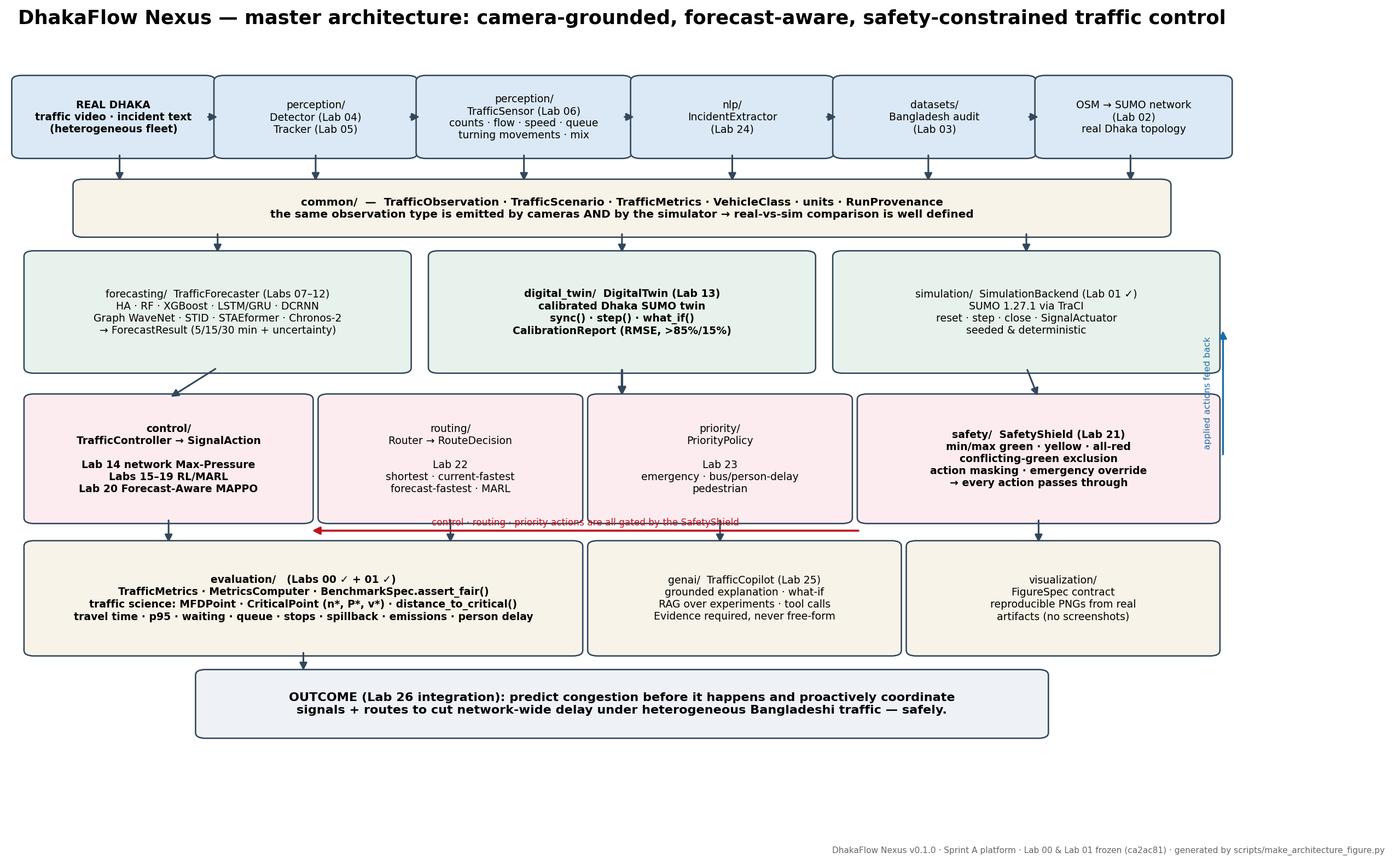
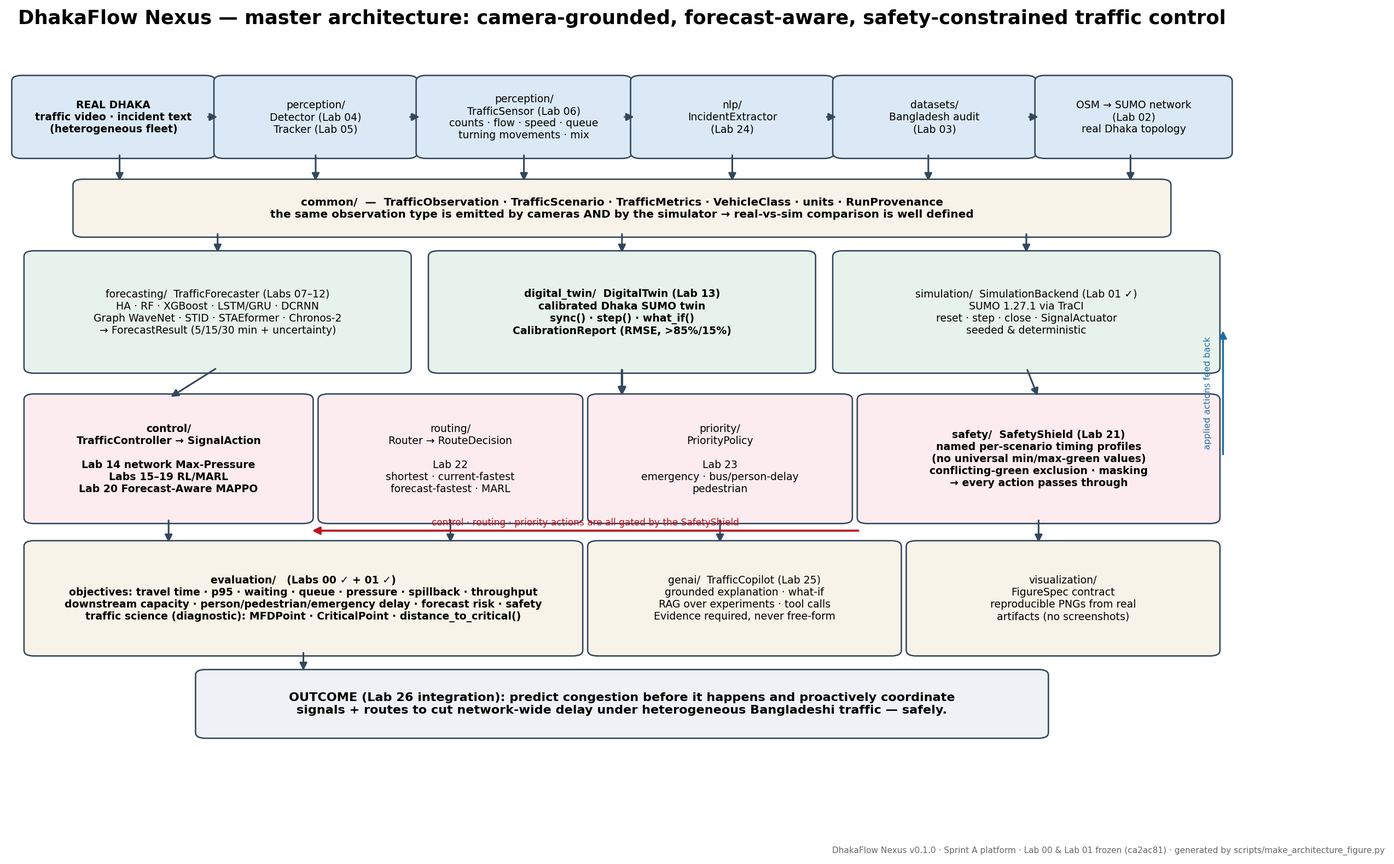
Sprint A semantic fixes: MFD role bounded, safety timings de-universalized, torino as fixture
Semantics/docs/tests only. No architecture redesign, no numerical result changed
(git diff vs ca2ac81 over Lab 00/01 evidence: 0 files).

1. MFD critical point is no longer described as a control set-point. It is a
   traffic-science diagnostic, congestion/capacity reference, and OPTIONAL state
   feature / reward-shaping term / risk signal to be justified by ablation.
   Controllers (Labs 14-21) optimise travel time, waiting, queue, pressure,
   spillback, throughput, downstream capacity, person/pedestrian/emergency
   delay, forecast risk and safety; Forecast-Aware MAPPO is never required to
   hold n ~= n*. Added a network-specificity/non-transferability warning.

2. SafetyConstraints no longer ships universal timing defaults: profile_name,
   min_green_s, max_green_s and yellow_s are now required, and values come from
   named per-scenario profiles (SAFETY_PROFILES, from_profile). Lab 01's
   10/45/3 s survive only as LAB01_VALIDATED_REFERENCE_PROFILE, tagged synthetic
   with no real-world jurisdiction; no 'default' or 'dhaka' profile exists.

3. Torino v*=34.6 km/h is now an explicitly named Lab 00 regression fixture
   (test_lab00_torino_regression_fixture_is_not_a_dhaka_threshold) that also
   pins the interior_maximum=False and calibrated=False caveats, and states it
   is not a Dhaka threshold/target/calibration input.

Updated: platform docstrings, docs/PLATFORM_ARCHITECTURE.md, docs/GRADUATION_MAP.md,
[…]

Changed region(s): [[0.031, 0.6513, 0.4031, 0.7443], [0.6511, 0.4962, 0.8371, 0.5582]]

diff --git a/tests/platform/test_interfaces.py b/tests/platform/test_interfaces.py
@@ -26,7 +26,8 @@ from dhakaflow.evaluation.traffic_science import (CriticalPoint, MFDPoint,
 from dhakaflow.genai.interfaces import CopilotAnswer, Evidence
 from dhakaflow.perception.interfaces import BoundingBox, Detection, Detector
 from dhakaflow.routing.interfaces import RouteDecision
-from dhakaflow.safety.interfaces import SafetyConstraints
+from dhakaflow.safety.interfaces import (LAB01_VALIDATED_REFERENCE_PROFILE, SAFETY_PROFILES,
+                                          SafetyConstraints)
 from dhakaflow.simulation.interfaces import SimulationBackend
 from dhakaflow.visualization.interfaces import FigureSpec
 
@@ -74,11 +75,38 @@ def test_metrics_missing_values_stay_none_and_cleanliness_is_explicit():
 
 # ------------------------------------------------------ Lab 00 traffic science
 def test_critical_point_speed_and_congestion_state():
-    cp = CriticalPoint(critical_density=31.9, critical_flow=1104.0, interior_maximum=False)
-    assert cp.critical_speed == pytest.approx(34.6, abs=0.1)   # cf. Lab 00 torino
+    """Generic arithmetic of the critical point — synthetic values, no city."""
+    cp = CriticalPoint(critical_density=50.0, critical_flow=2000.0)
+    assert cp.critical_speed == pytest.approx(40.0)
     assert cp.congestion_state(20.0) == "free_flow"
-    assert cp.congestion_state(40.0) == "congested"
-    assert distance_to_critical(40.0, cp) == pytest.approx(8.1)
+    assert cp.congestion_state(60.0) == "congested"
+    assert cp.congestion_state(50.0) == "critical"
+    assert distance_to_critical(60.0, cp) == pytest.approx(10.0)
+
+
+def test_lab00_torino_regression_fixture_is_not_a_dhaka_threshold():
+    """LAB 00 REGRESSION FIXTURE — pins frozen Lab 00 behaviour only.
+
+    Guards that the platform's v* = P*/n* arithmetic still reproduces the frozen
+    Lab 00 torino estimate (k*=31.9 veh/km/lane, q*=1104 veh/h/lane → 34.6 km/h,
+    per paper_labs/00_utd19/outputs/metrics/stage1_run_record.json).
+
+    This is NOT a Dhaka operating threshold, NOT a control target and NOT a
+    calibration input. Torino critical values must never be transferred into
+    Dhaka control or calibration — Dhaka's critical behaviour must be estimated
+    from Dhaka data (Labs 06/13). The fixture also pins the two honesty flags
+    that make the torino number quotable at all.
+    """
+    torino = CriticalPoint(
+        critical_density=31.9, critical_flow=1104.0, units="per_lane",
+        interior_maximum=False,     # fitted max sat at the edge of observed range
+        calibrated=False,           # UNCALIBRATED_ANALYSIS (no Google speed calib.)
+        source_lab="00_utd19",
+    )
+    assert torino.critical_speed == pytest.approx(34.6, abs=0.1)
+    assert torino.interior_maximum is False, "lower-bound caveat must survive"
+    assert torino.calibrated is False, "uncalibrated caveat must survive"
+    assert torino.source_lab == "00_utd19"
 
 
 def test_jam_ratio_check_and_unknown_jam_is_not_a_failure():
@@ -102,10 +130,35 @@ def test_signal_action_validation():
     assert ok.duration_s == 5
 
 
-def test_safety_constraints_reject_impossible_values():
-    SafetyConstraints(min_green_s=10, max_green_s=45)          # Lab 01 values
+def test_safety_constraints_require_a_named_profile_and_valid_timings():
+    ok = SafetyConstraints(profile_name="scenario_x", min_green_s=8,
+                           max_green_s=60, yellow_s=4)
+    assert ok.profile_name == "scenario_x"
+    with pytest.raises(ValueError, match="profile_name"):
+        SafetyConstraints(profile_name="", min_green_s=8, max_green_s=60, yellow_s=4)
     with pytest.raises(ValueError):
-        SafetyConstraints(min_green_s=50, max_green_s=45)
+        SafetyConstraints(profile_name="bad", min_green_s=50, max_green_s=45, yellow_s=3)
+
+
+def test_no_universal_timing_defaults_exist():
+    """Timing values must be supplied per scenario — never inherited silently."""
+    with pytest.raises(TypeError):
+        SafetyConstraints(profile_name="incomplete")      # no min/max/yellow defaults
+
+
+def test_lab01_reference_profile_is_named_and_not_a_dhaka_default():
+    p = LAB01_VALIDATED_REFERENCE_PROFILE
+    assert p.profile_name == "LAB01_VALIDATED_REFERENCE_PROFILE"
+    assert (p.min_green_s, p.max_green_s, p.yellow_s) == (10.0, 45.0, 3.0)
+    assert "Lab 01" in p.provenance and "synthetic" in p.provenance
+    # it is reachable only by explicit name, and no "default"/"dhaka" profile exists
+    assert SafetyConstraints.from_profile(p.profile_name) is p
+    assert not any(k.lower() in ("default", "dhaka") for k in SAFETY_PROFILES)
+    with pytest.raises(KeyError):
+        SafetyConstraints.from_profile("default")
+    tuned = SafetyConstraints.from_profile(p.profile_name, min_green_s=12,
+                                           profile_name="dhaka_farmgate_draft")
+    assert tuned.min_green_s == 12 and tuned.profile_name == "dhaka_farmgate_draft"
 
 
 # ------------------------------------------------------------ grounded genai

diff --git a/dhakaflow/evaluation/traffic_science.py b/dhakaflow/evaluation/traffic_science.py
@@ -8,11 +8,33 @@ This module carries the *definitions and invariants* into the platform. It does
 NOT recompute or restate Lab 00's frozen torino numbers — those live in
 paper_labs/00_utd19/outputs/ and are cited, never duplicated.
 
-Why the platform needs it: the paper's operating principle is that an ideal
-control keeps the network near n ≈ n* (Loder et al. §Introduction). That makes
-the critical point the set-point/reference against which Labs 14-21 controllers
-are judged, and the congested branch is why routing more vehicles into a
+Role of the critical point in DhakaFlow — read this before using it
+-------------------------------------------------------------------
+Loder et al. observe that, for maximising *travel production alone*, an ideal
+control would act near n ≈ n* (their §Introduction). That is a statement about
+one macroscopic quantity in their study networks. It is **not** the DhakaFlow
+control objective, and no controller in this project is required or expected to
+hold n ≈ n*.
+
+Within DhakaFlow the critical point is used only as:
+  * a **traffic-science diagnostic** (is this network in its free-flow or
+    congested branch?);
+  * a **congestion/capacity reference** for interpreting results;
+  * an optional **state feature** for a controller or forecaster;
+  * an optional **reward-shaping feature** whose usefulness must be established
+    by ablation, never assumed;
+  * an optional **constraint / risk signal** (e.g. over-saturation warning).
+
+Controllers in Labs 14-21 optimise broader, multi-objective outcomes — travel
+time, waiting time, queue length, pressure, spillback, throughput, downstream
+capacity, person-delay, pedestrian delay, emergency delay, forecast risk and
+safety. The congested branch also explains why routing more vehicles into a
 saturated region lowers total throughput (Lab 22).
+
+Transferability warning: critical values are network-specific. A value measured
+on one city's network (e.g. Lab 00's torino estimate) must never be transferred
+as an operating threshold for Dhaka; Dhaka's own critical behaviour has to be
+estimated from Dhaka data (Labs 06/13).
 """
 from __future__ import annotations
 
@@ -50,6 +72,11 @@ class CriticalPoint:
     fitted maximum sits at the edge of the observed range (whole-city torino
     never entered deep congestion) the critical point is a lower bound, not a
     peak, and must not be reported as a capacity estimate without that caveat.
+
+    NETWORK-SPECIFIC. A critical point belongs to the network and observation
+    period it was estimated from (`source_lab`). Values are not portable between
+    cities: Lab 00's torino estimate is a reproduction artifact, never a Dhaka
+    operating threshold, control target or calibration input.
     """
 
     critical_density: float          # n* or k*
@@ -98,9 +125,17 @@ def network_speed(production: float, accumulation: float) -> float:
 
 
 def distance_to_critical(current_accumulation: float, critical: CriticalPoint) -> float:
-    """Signed gap n - n*: negative = spare capacity, positive = over-saturated.
+    """Signed gap n - n*: negative = below the critical point, positive = beyond it.
 
-    This is the control-relevant scalar for perimeter/pressure strategies and a
-    natural reward-shaping term for Lab 20 — hence its home in the platform.
+    A DIAGNOSTIC scalar, not a control target. It may be offered to a controller
+    as a state feature, a reward-shaping term or a risk/constraint signal, but
+    any such use must be justified by ablation (Lab 20) against the broader
+    objective set (travel time, waiting, queue, pressure, spillback, throughput,
+    downstream capacity, person/pedestrian/emergency delay, forecast risk,
+    safety). Nothing in the platform drives the network toward n = n*.
+
+    `critical` must have been estimated on the SAME network being measured.
     """
+    if critical.units != "per_km2" and critical.units != "per_lane":
+        raise ValueError(f"unknown units {critical.units!r}")
     return current_accumulation - critical.critical_density

diff --git a/dhakaflow/safety/interfaces.py b/dhakaflow/safety/interfaces.py
@@ -7,7 +7,7 @@ constraints on its own, so the shield sits between controller and actuator.
 """
 from __future__ import annotations
 
-from dataclasses import dataclass, field
+from dataclasses import dataclass, field, replace
 from typing import Mapping, Protocol, Sequence, runtime_checkable
 
 from ..common.types import JunctionId, TrafficObservation
@@ -16,21 +16,70 @@ from ..control.interfaces import SignalAction
 
 @dataclass(frozen=True)
 class SafetyConstraints:
-    """Hard constraints. Defaults match the Lab 01 validated configuration."""
+    """Hard signal-timing constraints for ONE scenario/junction group.
 
-    min_green_s: float = 10.0
-    max_green_s: float = 45.0
-    yellow_s: float = 3.0
+    There are **no universal timing values**. Green/yellow/all-red durations
+    depend on approach speed, junction geometry, crossing width, pedestrian
+    volumes and local regulation, so every value must come from a named,
+    scenario-specific profile supplied by config — never from a library default.
+    `profile_name` is mandatory so that any reported result states which timing
+    regime produced it.
+
+    Dhaka profiles must be derived from Dhaka field/regulatory data (Labs 02/03
+    onward) and are NOT expected to equal the Lab 01 reference values.
+    """
+
+    profile_name: str
+    min_green_s: float
+    max_green_s: float
+    yellow_s: float
     all_red_s: float = 0.0
     min_pedestrian_clearance_s: float = 0.0
     forbid_conflicting_greens: bool = True
     allow_emergency_override: bool = True
+    provenance: str = ""            # where these numbers came from
 
     def __post_init__(self) -> None:
+        if not self.profile_name:
+            raise ValueError("profile_name is required — timing values are never anonymous")
         if self.min_green_s <= 0 or self.max_green_s < self.min_green_s:
             raise ValueError("require 0 < min_green_s <= max_green_s")
         if self.yellow_s < 0 or self.all_red_s < 0:
             raise ValueError("transition times must be >= 0")
+        if self.min_pedestrian_clearance_s < 0:
+            raise ValueError("min_pedestrian_clearance_s must be >= 0")
+
+    @classmethod
+    def from_profile(cls, name: str, **overrides) -> "SafetyConstraints":
+        """Build from a registered named profile (see SAFETY_PROFILES)."""
+        try:
+            base = SAFETY_PROFILES[name]
+        except KeyError as exc:
+            raise KeyError(f"unknown safety profile {name!r}; "
+                           f"available: {sorted(SAFETY_PROFILES)}") from exc
+        return replace(base, **overrides) if overrides else base
+
+
+#: Timing regime validated by Lab 01 on its synthetic 4-arm unit junction.
+#: Use for regression tests, examples and reproducing Lab 01 — NOT as a Dhaka
+#: default and NOT as a recommendation for any real intersection.
+LAB01_VALIDATED_REFERENCE_PROFILE = SafetyConstraints(
+    profile_name="LAB01_VALIDATED_REFERENCE_PROFILE",
+    min_green_s=10.0,
+    max_green_s=45.0,
+    yellow_s=3.0,
+    all_red_s=0.0,
+    min_pedestrian_clearance_s=0.0,
+    provenance=("Lab 01 synthetic unit junction (paper_labs/01_sumo_foundation), "
+                "validated 5-seed run at commit ca2ac81; synthetic scenario values, "
+                "no real-world jurisdiction"),
+)
+
+#: Named profiles available to configs. Dhaka profiles are added only when
+#: backed by field/regulatory evidence; there is deliberately no "default".
+SAFETY_PROFILES: dict[str, SafetyConstraints] = {
+    LAB01_VALIDATED_REFERENCE_PROFILE.profile_name: LAB01_VALIDATED_REFERENCE_PROFILE,
+}
 
 
 @dataclass(frozen=True)

diff --git a/scripts/make_architecture_figure.py b/scripts/make_architecture_figure.py
@@ -108,14 +108,15 @@ def master_architecture():
     box(ax, 0.48, 0.335, 0.20, 0.165,
         "priority/\nPriorityPolicy\n\nLab 23\nemergency · bus/person-delay\npedestrian", C_CTRL)
     box(ax, 0.70, 0.335, 0.28, 0.165,
-        "safety/  SafetyShield (Lab 21)\nmin/max green · yellow · all-red\nconflicting-green exclusion\naction masking · emergency override\n→ every action passes through", C_CTRL, bold=True)
+        "safety/  SafetyShield (Lab 21)\nnamed per-scenario timing profiles\n(no universal min/max-green values)\nconflicting-green exclusion · masking\n→ every action passes through", C_CTRL, bold=True)
 
     # ---- row 5: evaluation & operator
     box(ax, 0.02, 0.15, 0.44, 0.145,
         "evaluation/   (Labs 00 ✓ + 01 ✓)\n"
-        "TrafficMetrics · MetricsComputer · BenchmarkSpec.assert_fair()\n"
-        "traffic science: MFDPoint · CriticalPoint (n*, P*, v*) · distance_to_critical()\n"
-        "travel time · p95 · waiting · queue · stops · spillback · emissions · person delay", C_PLAT, bold=True)
+        "objectives: travel time · p95 · waiting · queue · pressure · spillback · throughput\n"
+        "downstream capacity · person/pedestrian/emergency delay · forecast risk · safety\n"
+        "traffic science (diagnostic): MFDPoint · CriticalPoint · distance_to_critical()",
+        C_PLAT, bold=True)
     box(ax, 0.48, 0.15, 0.24, 0.145,
         "genai/  TrafficCopilot (Lab 25)\ngrounded explanation · what-if\nRAG over experiments · tool calls\nEvidence required, never free-form", C_PLAT)
     box(ax, 0.74, 0.15, 0.24, 0.145,
@@ -177,11 +178,13 @@ def interface_map():
     box(ax, 0.02, 0.175, 0.47, 0.10,
         "LAB 00 → evaluation/traffic_science.py\n"
         "MFDPoint · CriticalPoint(n*, P*, v*) · distance_to_critical()\n"
-        "the control set-point n ≈ n* and the congested branch come from here", C_LAB, fs=8.2, bold=True)
+        "DIAGNOSTIC / optional feature — not a control target; network-specific",
+        C_LAB, fs=8.2, bold=True)
     box(ax, 0.51, 0.175, 0.47, 0.10,
         "LAB 01 → simulation/ · control/ · safety/ · evaluation/\n"
         "SimulationBackend · SignalActuator · SignalAction · TrafficController\n"
-        "SafetyConstraints(min/max green, yellow) · TrafficMetrics · BenchmarkSpec", C_LAB, fs=8.2, bold=True)
+        "SafetyConstraints (named profiles, no universal timings) · BenchmarkSpec",
+        C_LAB, fs=8.2, bold=True)
 
     box(ax, 0.02, 0.035, 0.96, 0.105,
         "GRADUATION PATH:   paper reproduction → benchmark → Dhaka adaptation → KEEP decision → adapter → dhakaflow/\n"

diff --git a/dhakaflow/safety/__init__.py b/dhakaflow/safety/__init__.py
@@ -1,4 +1,4 @@
 """Safety interfaces — the shield every controller action passes through."""
-from .interfaces import (SafetyConstraints, SafetyShield, SafetyViolation)
+from .interfaces import (SafetyConstraints, SafetyShield, SafetyViolation, LAB01_VALIDATED_REFERENCE_PROFILE, SAFETY_PROFILES)
 
-__all__ = ["SafetyConstraints", "SafetyShield", "SafetyViolation"]
+__all__ = ["SafetyConstraints", "SafetyShield", "SafetyViolation", "LAB01_VALIDATED_REFERENCE_PROFILE", "SAFETY_PROFILES"]

diff --git a/docs/GRADUATION_MAP.md b/docs/GRADUATION_MAP.md
@@ -17,11 +17,17 @@ remain frozen and unedited (verified: `git diff` on their evidence is empty).
 | Edge-of-range maximum caveat (torino never entered deep congestion) | `CriticalPoint.interior_maximum` — a required honesty flag |
 | "n\* ≤ ~⅓ jam density" physics check (Loder et al.) | `CriticalPoint.sanity_check_vs_jam()`; unknown jam density returns True (unavailable ≠ failed) |
 | Calibrated vs uncalibrated analysis distinction | `CriticalPoint.calibrated` (False ⇒ UNCALIBRATED_ANALYSIS) |
-| **Control relevance:** ideal control keeps n ≈ n\* | `distance_to_critical()` — the set-point signal for Labs 14–21 and a candidate reward term for Lab 20 |
+| **Control relevance (bounded):** Loder et al. note that maximising *travel production alone* would act near n ≈ n\* | `distance_to_critical()` — a **diagnostic**, offered to later labs only as an optional state feature / reward-shaping term / risk signal, to be justified by ablation. **Not a control target**: Labs 14–21 optimise travel time, waiting, queue, pressure, spillback, throughput, downstream capacity, person/pedestrian/emergency delay, forecast risk and safety. Forecast-Aware MAPPO (Lab 20) is never required to hold n ≈ n\* |
 
-**Cross-check (no Lab 00 number altered):** the platform formula reproduces Lab
-00's frozen torino value — `CriticalPoint(31.9, 1104).critical_speed ≈ 34.6 km/h`
-— asserted in `tests/platform/test_interfaces.py`.
+**Lab 00 regression fixture (no Lab 00 number altered):**
+`test_lab00_torino_regression_fixture_is_not_a_dhaka_threshold` pins that the
+platform's v\* = P\*/n\* arithmetic still reproduces the frozen torino estimate
+(31.9 veh/km/lane, 1104 veh/h/lane → 34.6 km/h) together with its
+`interior_maximum=False` and `calibrated=False` caveats. It verifies **frozen
+Lab 00 behaviour only**. It is **not** a Dhaka operating threshold, control
+target or calibration input — critical values are network-specific and torino's
+must never be transferred into Dhaka control or calibration. Dhaka's own
+critical behaviour is estimated from Dhaka data in Labs 06/13.
 
 **Not graduated:** the UTD19 dataset, the fitted torino parameters, and the
 re-sampling/quantile-fit pipeline stay in `paper_labs/00_utd19/` and are cited,
@@ -38,7 +44,7 @@ never duplicated.
 | Scenario definition (net + routes + seed + duration) | `common/TrafficScenario`, incl. `warmup_s` and `evaluation_window_s` (Bologna §1.5 warm-up lesson) |
 | Per-step observation (halting counts, queue ratio, running/arrived) | `common/TrafficObservation` + `LaneState` |
 | Controller decisions (hold/extend/terminate) with rationale | `control/SignalAction`, `SignalActionType`, `TrafficController.act(obs, t, forecast=None)` |
-| min-green / max-green / yellow preserved; 0 collisions, 0 teleports | `safety/SafetyConstraints` (defaults **are** Lab 01's 10 s/45 s/3 s) + `SafetyShield` |
+| min-green / max-green / yellow preserved; 0 collisions, 0 teleports | `safety/SafetyConstraints` (**no universal defaults** — every timing value comes from a named scenario profile) + `SafetyShield`. Lab 01's 10 s/45 s/3 s survive only as the explicitly named `LAB01_VALIDATED_REFERENCE_PROFILE`, tagged as synthetic-scenario values with no real-world jurisdiction; Dhaka profiles must come from Dhaka field/regulatory data |
 | Transport metric set incl. proxy honesty (stops, spillback) | `common/TrafficMetrics` + `MetricsComputer.proxy_metric_names` |
 | Fair multi-seed matrix (identical demand across arms) | `evaluation/BenchmarkSpec.assert_fair()` + `ArmSetup` |
 | Upstream integrity discipline (pinned SHAs, no vendoring) | `common/RunProvenance.upstream_shas`; policy in `PLATFORM_ARCHITECTURE.md` |

diff --git a/docs/PLATFORM_ARCHITECTURE.md b/docs/PLATFORM_ARCHITECTURE.md
@@ -49,11 +49,26 @@ satisfy the protocols while inheriting only from `object`.
 `TrafficObservation`. This is what makes real-vs-simulated calibration (Lab 13)
 and sim2real transfer (Lab 21) *type-level* guarantees rather than glue code.
 
-**3. Safety is a layer, not a habit.** In Lab 01 each controller policed its own
-min/max-green. An RL policy cannot be trusted to do that, so `SafetyShield` sits
-between controller and actuator: it returns a safe replacement action and logs a
-`SafetyViolation` rather than raising — violations become a first-class metric
-instead of a crash.
+**3. Safety is a layer, not a habit — and its numbers are never universal.** In
+Lab 01 each controller policed its own min/max-green. An RL policy cannot be
+trusted to do that, so `SafetyShield` sits between controller and actuator: it
+returns a safe replacement action and logs a `SafetyViolation` rather than
+raising — violations become a first-class metric instead of a crash. Timing
+values are *not* library defaults: `SafetyConstraints` requires an explicit
+`profile_name` and explicit green/yellow durations, because safe timings depend
+on approach speed, geometry, crossing width, pedestrian volume and local
+regulation. Lab 01's 10 s/45 s/3 s exist only as the named
+`LAB01_VALIDATED_REFERENCE_PROFILE` (synthetic scenario, no jurisdiction);
+Dhaka profiles must be derived from Dhaka evidence.
+
+**3b. The MFD critical point is a diagnostic, not a control target.** Lab 00's
+`CriticalPoint`/`distance_to_critical()` provide a congestion-and-capacity
+reference and an *optional* state / reward-shaping / risk feature whose value
+must be shown by ablation. Controllers (Labs 14–21) optimise travel time,
+waiting, queue, pressure, spillback, throughput, downstream capacity,
+person-delay, pedestrian delay, emergency delay, forecast risk and safety.
+Forecast-Aware MAPPO is **not** required to hold n ≈ n\*. Critical values are
+network-specific and never transferable between cities.
 
 **4. Missing values are `None`, never `0`.** `TrafficMetrics` fields default to
 `None`; `speed_from_flow_density` raises at zero density. Lab 00 showed how a

diff --git a/paper_labs/00_utd19/PAPER_SUMMARY.md b/paper_labs/00_utd19/PAPER_SUMMARY.md
@@ -87,10 +87,19 @@ still uncongested — critical speed averaged 18.8 km/h across networks (Fig. 2b
 
 ### Why this matters for DhakaFlow Nexus later
 
-- **Signal control (future RL labs):** the paper states ideal control keeps the
-  network near n ≈ n\* (Introduction ¶4). The MFD critical point is exactly the
-  set-point that perimeter-control / pressure-based signal strategies target. Our
-  future RL reward shaping will be judged against this traffic science.
+- **Signal control (future RL labs) — bounded claim:** the paper states that, to
+  maximise *travel production*, an ideal control would act near n ≈ n\*
+  (Introduction ¶4). That is the paper's statement about one macroscopic
+  quantity in its study networks; it is **not** DhakaFlow's control objective.
+  In this project the critical point is used as a traffic-science diagnostic, a
+  congestion/capacity reference, and an *optional* state feature, reward-shaping
+  term or risk/constraint signal whose value must be demonstrated by ablation.
+  Later controllers (Labs 14–21) optimise travel time, waiting, queue, pressure,
+  spillback, throughput, downstream capacity, person-delay, pedestrian delay,
+  emergency delay, forecast risk and safety — Forecast-Aware MAPPO is never
+  required to simply hold n ≈ n\*. Critical values are also network-specific:
+  the torino estimate below must never be transferred into Dhaka control or
+  calibration.
 - **Routing:** congested-branch behavior explains why routing more vehicles into
   a saturated region reduces total throughput.
 - **Dhaka:** bus production density B reducing capacity is directly relevant to a

diff --git a/paper_labs/00_utd19/REPRODUCTION_REPORT.md b/paper_labs/00_utd19/REPRODUCTION_REPORT.md
@@ -152,9 +152,15 @@ network's mean flow vs mean density traces the MFD; production/accumulation are
 the network-scaled versions; the curve rises (free flow), peaks at the critical
 point (capacity, n\*/k\*), and falls (congestion — more cars, less movement);
 critical speed v\* = q\*/k\* is where congestion begins (paper: ~19 km/h on
-average — city networks saturate at surprisingly low speeds). Signal control
-should hold the network near n\* (Introduction ¶4) — the scientific basis for
-DhakaFlow's future RL set-points.
+average — city networks saturate at surprisingly low speeds). The paper notes
+that maximising travel production alone would act near n ≈ n\* (Introduction
+¶4); in DhakaFlow the critical point is carried forward as a **diagnostic and
+optional feature** (state / reward-shaping / risk signal, to be justified by
+ablation), not as a control target — later controllers optimise travel time,
+waiting, queue, pressure, spillback, throughput, downstream capacity,
+person/pedestrian/emergency delay, forecast risk and safety. Torino's critical
+values are network-specific and are never transferred into Dhaka control or
+calibration.
 
 ## 9. Relevance to DhakaFlow Nexus
 
